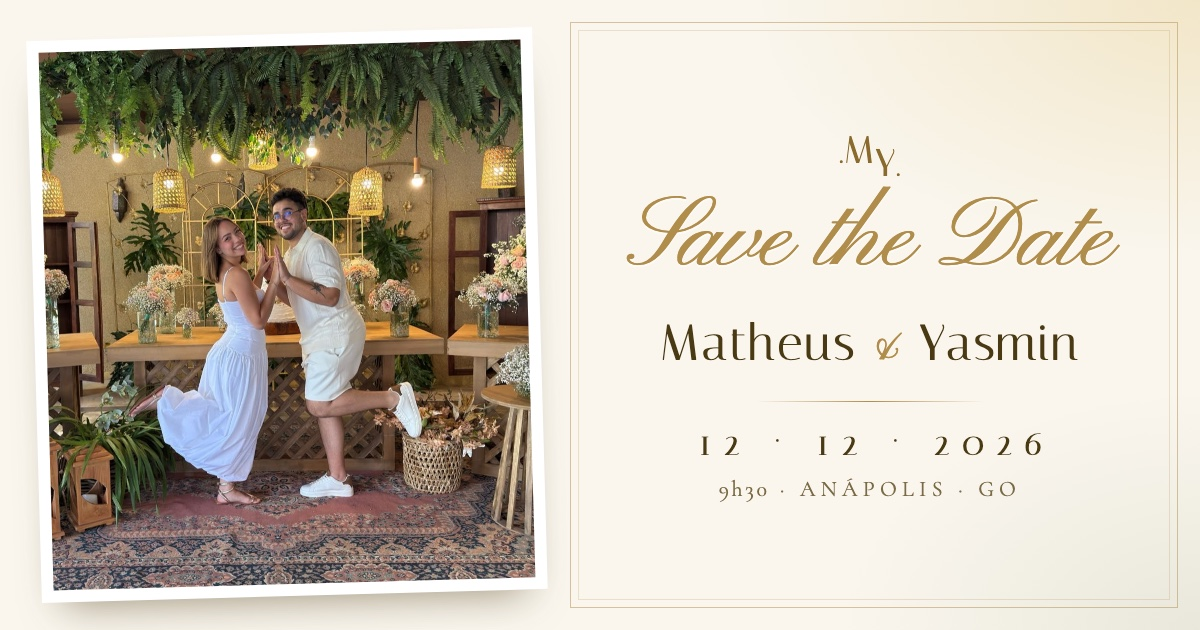
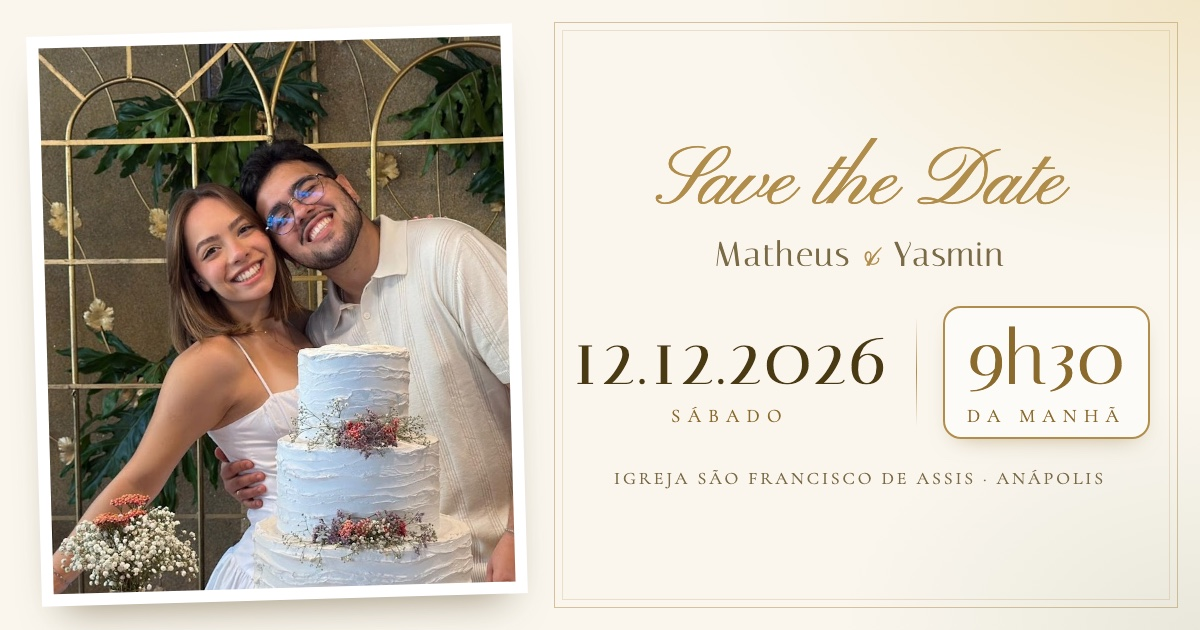
Save the Date: destaque para data e horário 9h30 e foto sempre juntinhos com zoom

diff --git a/savethedate/index.html b/savethedate/index.html
@@ -4,11 +4,11 @@
 <meta charset="UTF-8">
 <meta name="viewport" content="width=device-width, initial-scale=1, viewport-fit=cover">
 <title>Save the Date · Matheus & Yasmin · 12.12.2026</title>
-<meta name="description" content="Save the Date! Matheus & Yasmin vão se casar em 12 de dezembro de 2026, às 9h30, na Igreja São Francisco de Assis, Anápolis-GO. Confirme sua presença.">
+<meta name="description" content="Save the Date! Matheus & Yasmin vão se casar no sábado, 12 de dezembro de 2026, às 9h30, na Igreja São Francisco de Assis, Anápolis-GO. Confirme sua presença.">
 <meta property="og:type" content="website">
 <meta property="og:site_name" content="Matheus & Yasmin">
 <meta property="og:title" content="Save the Date · Matheus & Yasmin">
-<meta property="og:description" content="12 de dezembro de 2026, às 9h30 · Igreja São Francisco de Assis, Anápolis-GO. Reserve a data e confirme sua presença!">
+<meta property="og:description" content="Sábado, 12/12/2026, às 9h30 da manhã · Igreja São Francisco de Assis, Anápolis-GO. Reserve a data e confirme sua presença!">
 <meta property="og:image" content="https://convitemy.vercel.app/assets/savethedate-og.jpg">
 <meta property="og:image:width" content="1200">
 <meta property="og:image:height" content="630">
@@ -376,10 +376,25 @@
   .hero .names.small{font-size:clamp(2.6rem, 9vw, 4.6rem); margin:30px 0 4px}
   .std-photo{max-width:440px; margin:34px auto 6px; transform:rotate(-1.6deg)}
   .std-photo .frame{aspect-ratio:4/3; overflow:hidden}
-  .std-photo .frame img{object-position:58% 60%}
+  .std-photo .frame img{object-position:50% 40%}
   .std-photo:hover{transform:rotate(0) scale(1.015)}
   .hero-date b{font-weight:400; color:var(--gold-deep)}
   .full-invite{margin-top:30px}
+  .when{display:flex; align-items:center; justify-content:center; gap:clamp(16px, 4vw, 34px); margin:40px auto 0; flex-wrap:wrap}
+  .when span{display:block; font-family:var(--display); line-height:1; letter-spacing:.03em}
+  .when small{display:block; margin-top:10px; font-size:.78rem; letter-spacing:.34em; text-transform:uppercase; color:var(--gold-deep)}
+  .when-date span{font-size:clamp(2.6rem, 11vw, 4.4rem); color:var(--ink)}
+  .when-sep{width:1px; align-self:stretch; min-height:80px; background:linear-gradient(transparent, var(--gold), transparent)}
+  .when-time{border:2px solid var(--gold); border-radius:18px; padding:14px 26px 12px; background:rgba(255,255,255,.6);
+    box-shadow:0 14px 30px -18px rgba(138,106,44,.7)}
+  .when-time span{font-size:clamp(2.8rem, 12vw, 4.6rem); color:var(--gold-deep)}
+  .when-place{margin:22px auto 0; letter-spacing:.2em; text-transform:uppercase; font-size:clamp(.74rem, 2.4vw, .9rem); color:var(--ink-soft)}
+  .hero .ring-stage{width:min(170px, 46vw); margin:26px auto 0}
+  .detail-row .hl{border:1px solid var(--gold); border-radius:12px; background:rgba(255,255,255,.6); box-shadow:0 10px 24px -16px rgba(138,106,44,.7)}
+  .detail-row .hl + div, .detail-row .hl{border-left:1px solid var(--gold)}
+  .detail-row .hl .big{color:var(--gold-deep)}
+  .detail-row .hl small{color:var(--gold-deep)}
+  @media (max-width:520px){ .when-sep{display:none} .when{flex-direction:column; gap:18px} }
 </style>
 </head>
 <body class="locked">
@@ -410,14 +425,19 @@
       <h2 class="names small reveal d2"><span class="n">Matheus</span> <span class="amp">&amp;</span> <span class="n">Yasmin</span></h2>
       <p class="lead reveal d2">Vamos nos casar! E queremos muito você ao nosso lado nesse dia.</p>
       <figure class="photo std-photo reveal d3">
-        <div class="frame"><img src="../assets/foto-casal.jpg" alt="Matheus e Yasmin sorrindo de mãos dadas"></div>
-        <figcaption>12 · 12 · 2026</figcaption>
+        <div class="frame"><img src="../assets/foto-juntinhos.jpg" alt="Matheus e Yasmin sorrindo abraçados atrás de um bolo branco"></div>
+        <figcaption>sempre juntinhos</figcaption>
       </figure>
+      <div class="when reveal d3" aria-label="Sábado, 12 de dezembro de 2026, às 9h30 da manhã">
+        <div class="when-date"><span>12.12.2026</span><small>Sábado</small></div>
+        <div class="when-sep" aria-hidden="true"></div>
+        <div class="when-time"><span>9h30</span><small>da manhã</small></div>
+      </div>
+      <p class="when-place reveal d3">Igreja São Francisco de Assis · Anápolis · GO</p>
       <div class="ring-stage reveal d3" data-rings="hero">
         <div class="flash"></div><div class="burst"></div>
         <div class="sway"></div>
       </div>
-      <div class="hero-date reveal d3">12 · DEZ · 2026 <b>·</b> 9h30</div>
       <a class="scroll-hint" href="#contagem">Role</a>
     </div>
   </section>
@@ -446,7 +466,7 @@
         <div class="detail-row reveal d2">
           <div><span class="big">12</span><small>dezembro</small></div>
           <div><span class="big">2026</span><small>sábado</small></div>
-          <div><span class="big">9h30</span><small>horário</small></div>
+          <div class="hl"><span class="big">9h30</span><small>da manhã</small></div>
         </div>
         <p class="place reveal d2">Igreja São Francisco de Assis</p>
         <p class="city reveal d2">Anápolis · GO</p>
